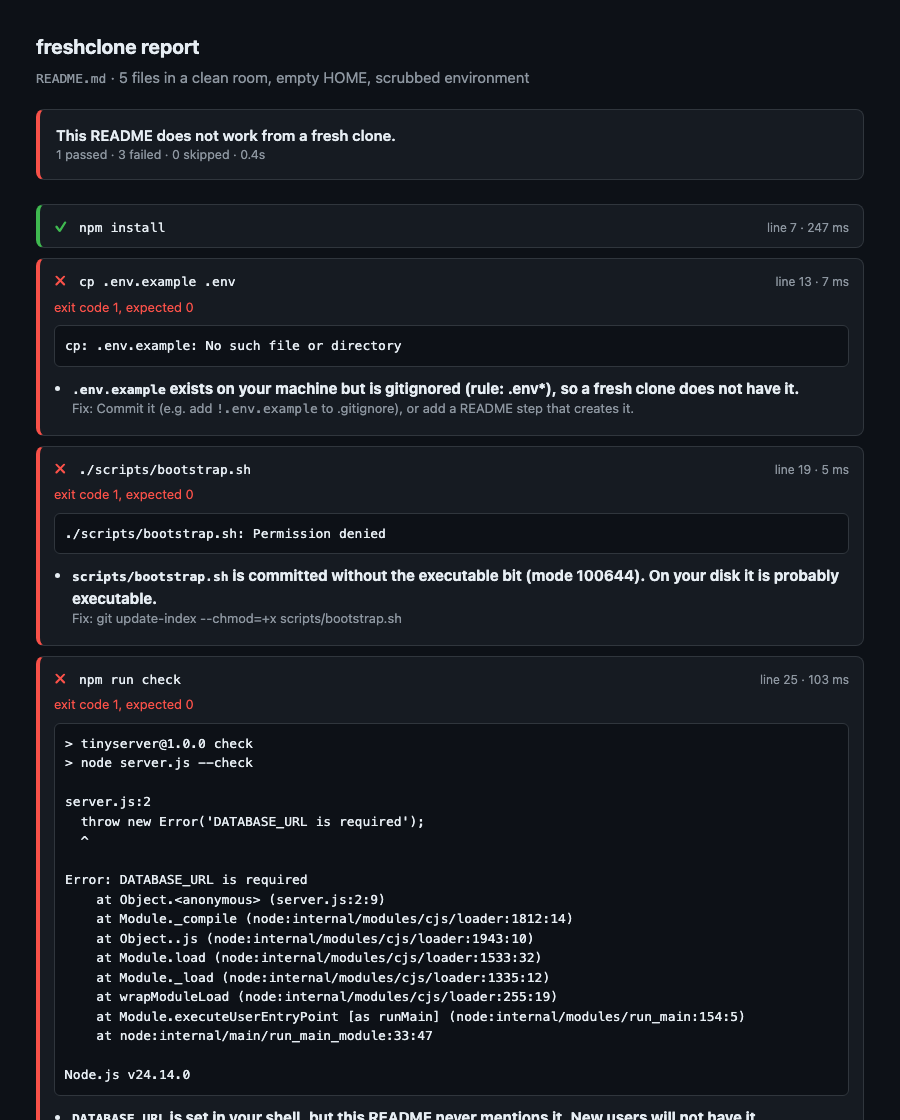
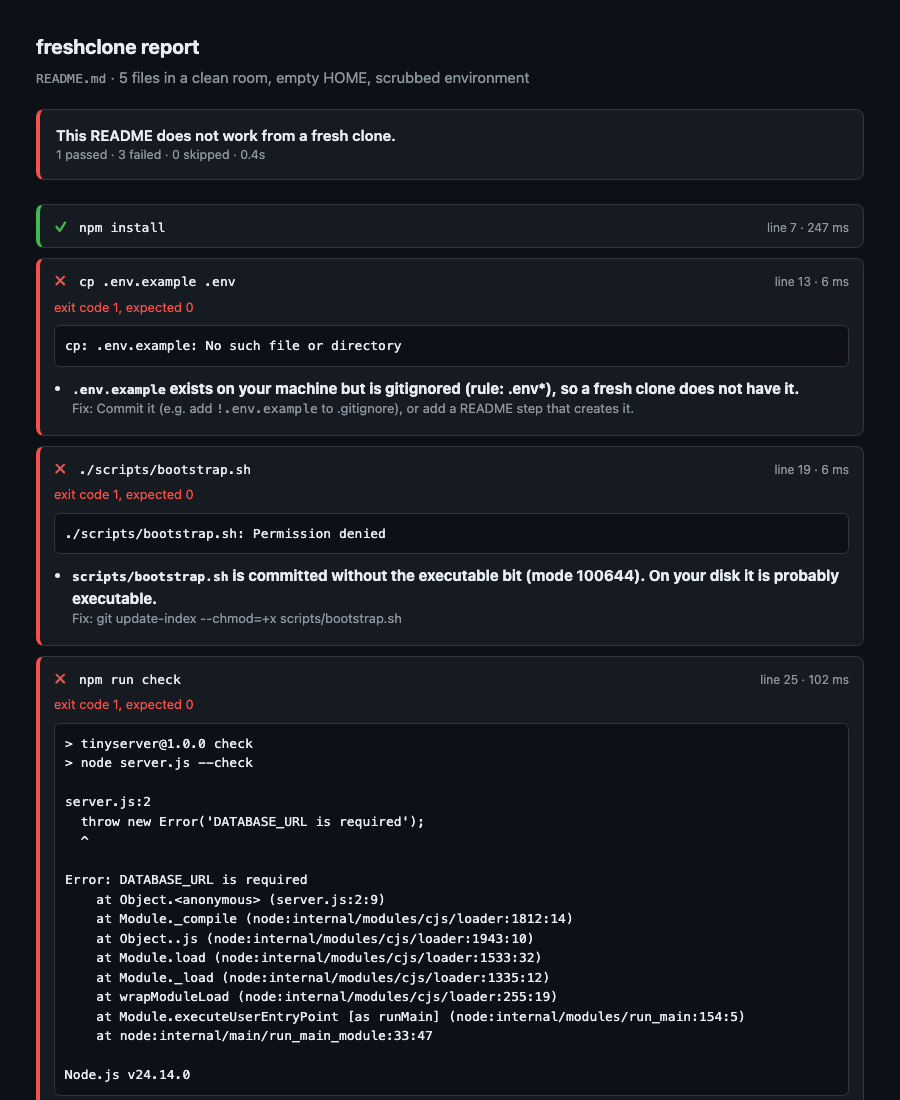
feat: quieter terminal output; add social preview image

diff --git a/scripts/social-preview.html b/scripts/social-preview.html
@@ -1,0 +1,11 @@
+<!doctype html><meta charset="utf-8"><style>
+body{margin:0;width:1280px;height:640px;background:#0d1117;color:#e6edf3;font:32px/1.35 -apple-system,"Segoe UI",Helvetica,Arial,sans-serif;display:flex;flex-direction:column;justify-content:center;padding:0 80px;box-sizing:border-box}
+h1{font:700 96px ui-monospace,Menlo,monospace;margin:0 0 24px;letter-spacing:-2px}
+p{margin:0 0 36px;color:#c9d1d9;max-width:1000px}
+pre{background:#161b22;border:1px solid #30363d;border-radius:12px;padding:22px 28px;margin:0;font:26px/1.5 ui-monospace,Menlo,monospace;width:max-content}
+.r{color:#f85149}.c{color:#58a6ff}.d{color:#8b949e}
+</style><h1>freshclone</h1>
+<p>Run your README like a new contributor would, and find out which hidden assumption broke.</p>
+<pre><span class="r">✗</span> cp .env.example .env
+<span class="c">→</span> <span class="d">`.env.example` is gitignored (rule: .env*),</span>
+<span class="d">  so a fresh clone does not have it.</span></pre>

diff --git a/src/report/terminal.js b/src/report/terminal.js
@@ -72,7 +72,11 @@ export function formatEntry(entry, o) {
   if (result.status === 'skip') {
     lines.push(`${pad}${c.dim(result.failures[0] ?? 'skipped')}`);
   } else if (result.status !== 'pass') {
-    for (const f of result.failures) lines.push(`${pad}${c.red(f)}`);
+    // the default "exit code N, expected 0" is noise when the output already explains the failure
+    const quiet = result.output.trim() !== '' && step.directives.exit === 0;
+    for (const f of result.failures) {
+      if (!(quiet && /^exit code \d+, expected 0$/.test(f))) lines.push(`${pad}${c.red(f)}`);
+    }
     for (const l of tail(result.output, 6)) lines.push(`${pad}${c.dim('│')} ${l}`);
     for (const d of diagnoses) {
       wrap(d.message, WIDTH).forEach((l, i) => lines.push(`${pad}${i === 0 ? c.cyan('→') : ' '} ${l}`));
